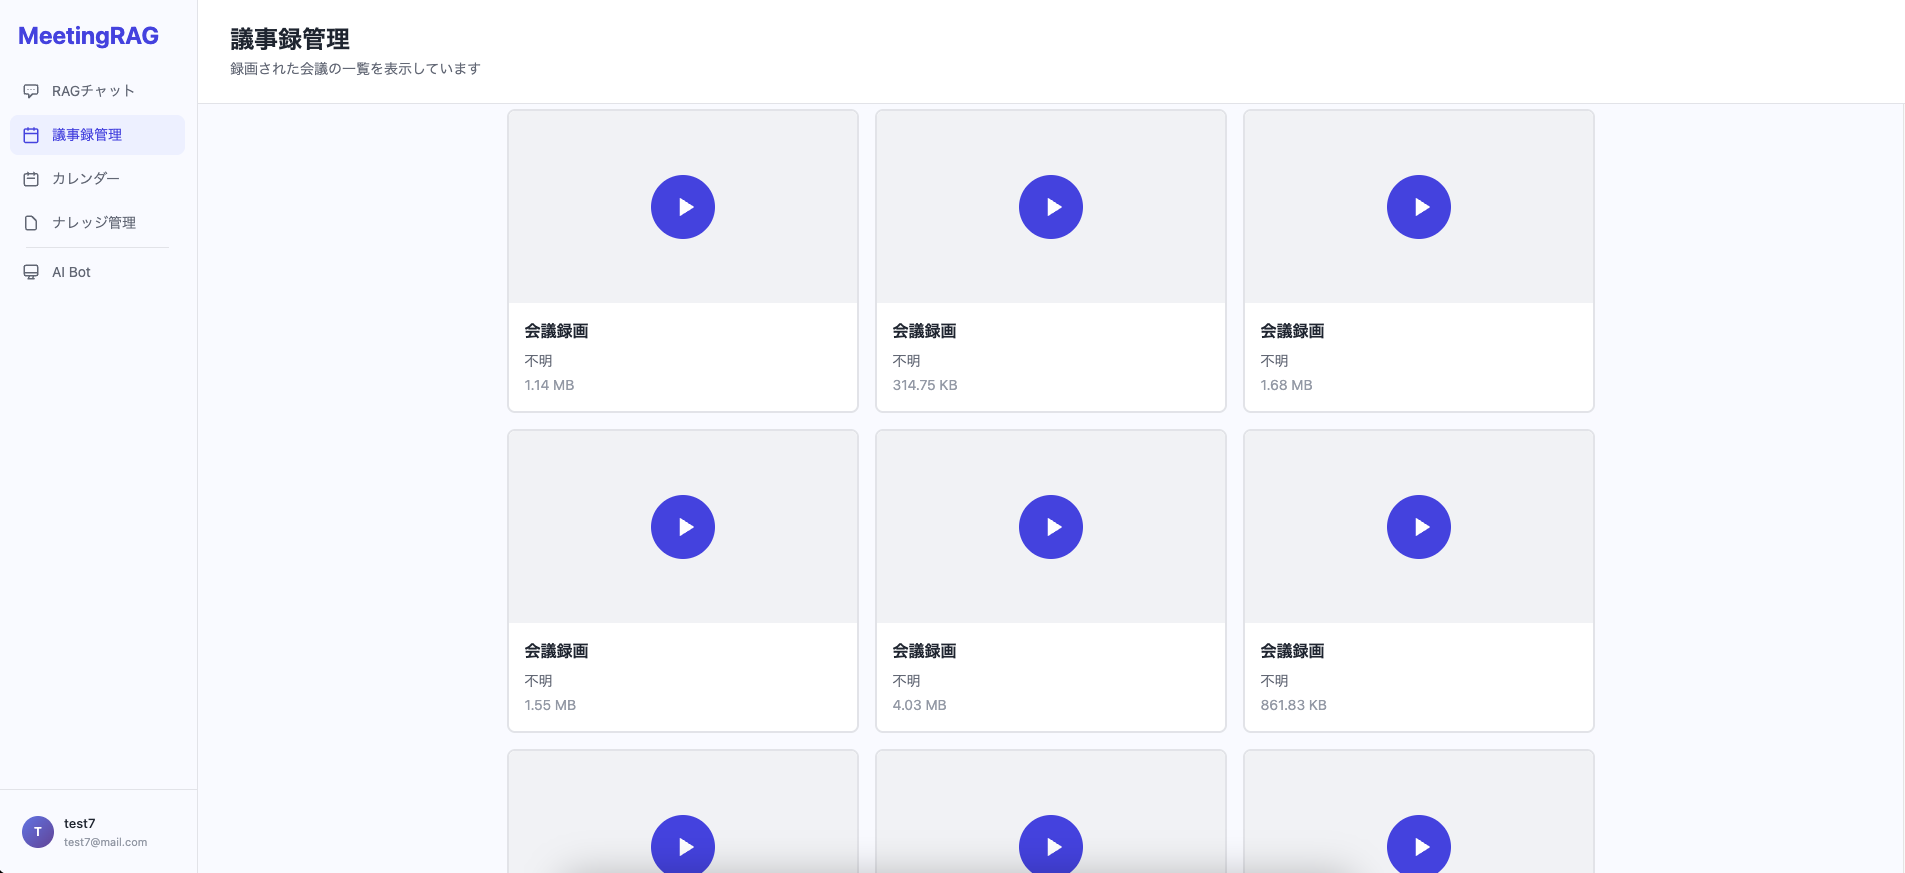
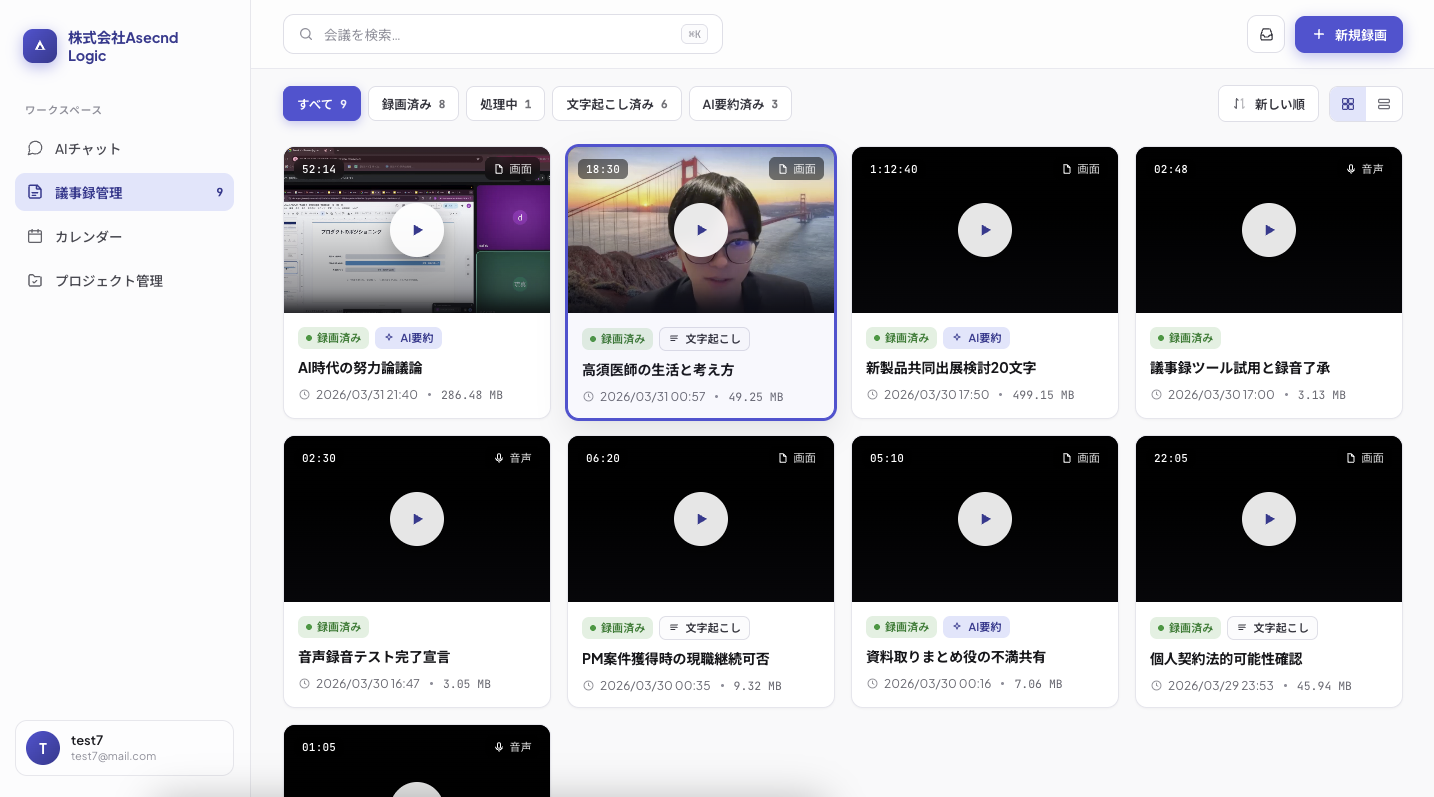
議事録事例更新

diff --git a/ascend-logic/app/case-studies/[id]/page.tsx b/ascend-logic/app/case-studies/[id]/page.tsx
@@ -48,7 +48,7 @@ function getCaseStudyById(id: number): DetailedCaseStudy | undefined {
       challenge:
         '建設現場では膨大な図面、仕様書、工事記録が存在し、必要な情報を素早く見つけ出すことが困難でした。特に、過去の類似プロジェクトの知見を活用できていない状況で、同じ問題に何度も直面していました。',
       approach: '最新のRAG技術とマルチモーダルAIを組み合わせ、テキストだけでなく図面や画像も理解できる統合検索システムを構築。建築特有の専門用語や図面記号を学習させた独自モデルを開発しました。',
-      technologies: ['RAG (Retrieval-Augmented Generation)', 'Vision Transformer', 'OpenAI GPT-4', 'Pinecone Vector DB', 'LangChain'],
+      technologies: ['RAG (Retrieval-Augmented Generation)', 'Vision Transformer', 'OpenAI OpenAI API', 'Pinecone Vector DB', 'LangChain'],
       duration: '3ヶ月',
       testimonial: 'これまで資料探しに費やしていた時間が劇的に削減され、本来の設計業務に集中できるようになりました。新入社員も過去の知見にアクセスしやすくなり、教育効率が大幅に向上しています。',
       testimonialAuthor: '技術部長',
@@ -65,7 +65,7 @@ function getCaseStudyById(id: number): DetailedCaseStudy | undefined {
       challenge: '毎日多数の会議が行われる中、議事録作成に膨大な時間を費やしていました。また、会議で決定したタスクの抜け漏れや、部門間での情報共有不足が課題となっていました。',
       approach:
         '最新の音声認識技術と自然言語処理を組み合わせ、リアルタイムで議事録を生成。話者識別機能により「誰が何を発言したか」を正確に記録し、AIが重要な決定事項とアクションアイテムを自動抽出します。',
-      technologies: ['Whisper API', 'Speaker Diarization', 'GPT-4', 'Zapier Integration', 'WebRTC'],
+      technologies: ['Whisper API', 'Speaker Diarization', 'OpenAI API', 'Zapier Integration', 'WebRTC'],
       duration: '3ヶ月',
       testimonial: '会議後すぐに議事録が共有され、決定事項が明確になったことで、プロジェクトの進行速度が格段に上がりました。',
       testimonialAuthor: 'プロジェクトマネージャー',
@@ -113,7 +113,7 @@ function getCaseStudyById(id: number): DetailedCaseStudy | undefined {
       imagePath: '/images/case-study-counseling.jpg',
       challenge: 'メンタルヘルスケアの需要が急増する中、専門カウンセラーの不足により、多くの人が適切なサポートを受けられない状況でした。',
       approach: '精神科医・臨床心理士と共同で、エビデンスベースのカウンセリングプロトコルをAIに実装。音声・表情・言語の多角的分析により、人間のカウンセラーに近い共感的な対話を実現しました。',
-      technologies: ['Emotion Recognition AI', 'Voice Stress Analysis', 'GPT-4 Fine-tuning', 'WebRTC', 'Homomorphic Encryption'],
+      technologies: ['Emotion Recognition AI', 'Voice Stress Analysis', 'OpenAI API Fine-tuning', 'WebRTC', 'Homomorphic Encryption'],
       duration: '6ヶ月',
       testimonial: '24時間いつでもアクセスでき、プライバシーも守られる環境で相談できることが、多くのユーザーに支持されています。',
       testimonialAuthor: '精神科医・医療監修責任者',
